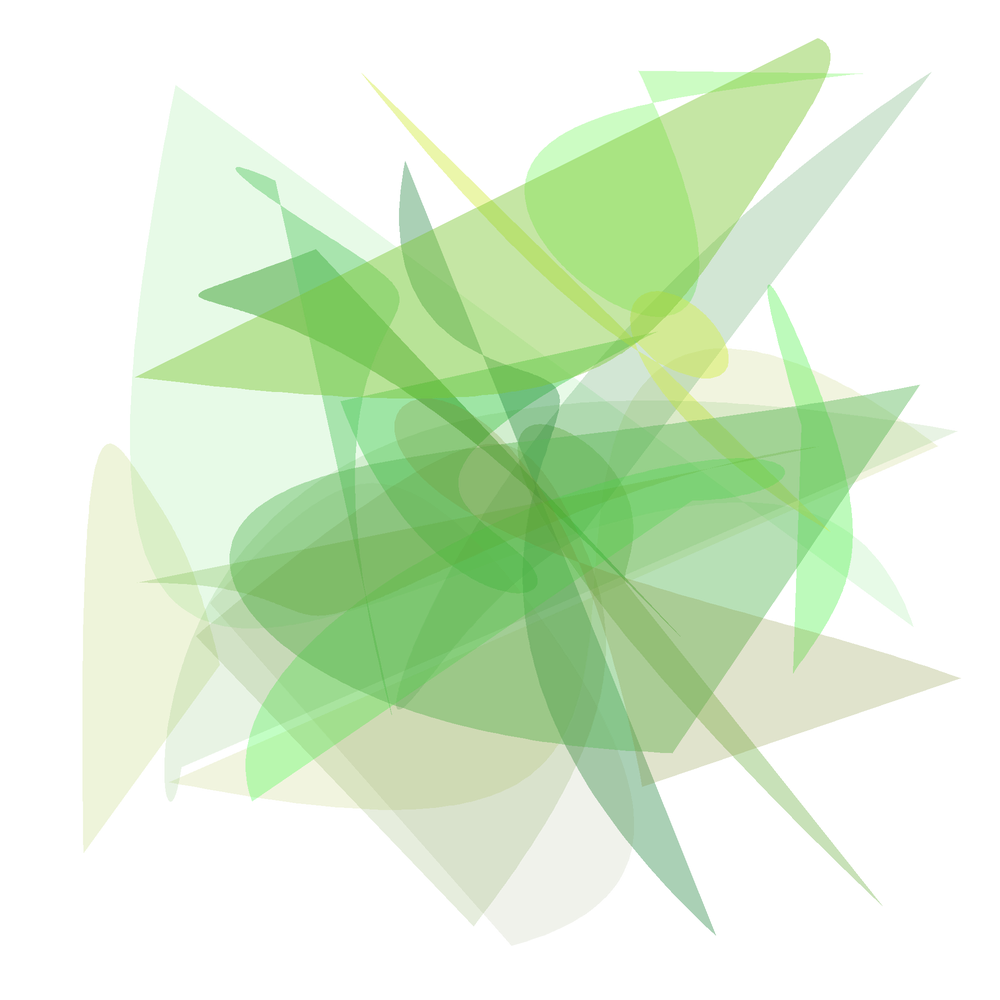
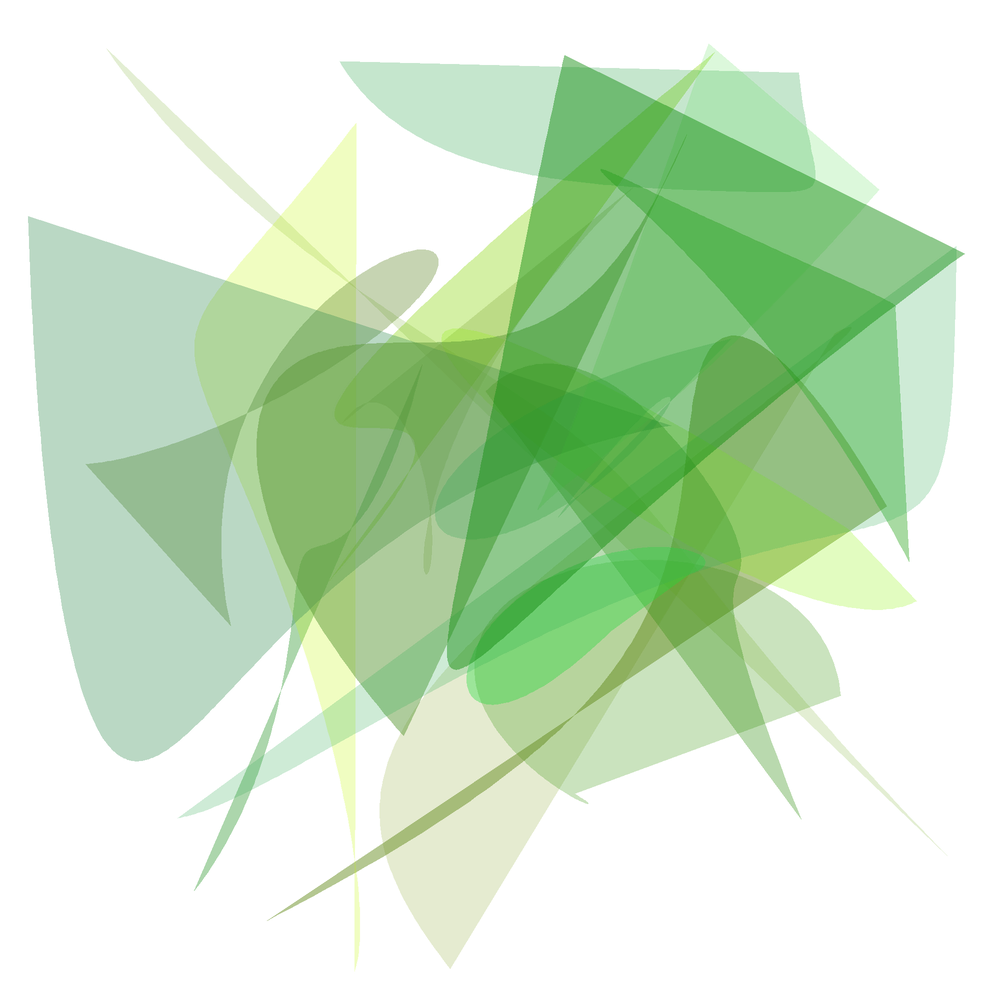
new art form once again

diff --git a/tools/image_utils.py b/tools/image_utils.py
@@ -1,9 +1,11 @@
 import random
 import numpy as np
 from PIL import Image
+from math import sin, cos, radians
 
 
 def calculate_offset(image, points):
+    """Calculates offset from image center for each point in point list."""
     width, height = image.size
 
     x_list = [point[0] for point in points]
@@ -21,6 +23,7 @@ def calculate_offset(image, points):
 
 
 def create_points(image, points_num, indent=50):
+    """Creates numpy list of random points on image with indent."""
     pts = []
     for _ in range(points_num):
         pts.append([random.randint(indent, image.size[0] - indent), random.randint(indent, image.size[0] - indent)])
@@ -37,7 +40,7 @@ def is_horizontal(start, end):
     return abs(delta_x) >= abs(delta_y)
 
 
-def points_along_line(image, points_num, start=None, end=None, indent=50):
+def points_along_line(image, points_num, start=None, end=None, indent=100, box=False):
     """Draws random points along line from start point to end point."""
     if start is None:
         start = [indent, indent]
@@ -45,15 +48,23 @@ def points_along_line(image, points_num, start=None, end=None, indent=50):
         end = [image.size[0] - indent, image.size[1] - indent]
 
     pts = [start]
+    if box:
+        min_x = int(min(start[0], end[0]))
+        box_width = int(max(start[0], end[0]) - min_x)
+        min_y = int(min(start[1], end[1]))
+        box_height = int(max(start[1], end[1]) - min_y)
+    else:
+        min_x, box_width, min_y, box_height = 0, image.size[0], 0, image.size[1]
 
     for i in range(points_num - 1):
 
         if is_horizontal(start, end):
             step_length = (end[0] - start[0]) // points_num
-            new_point = [start[0] + step_length * (i + 1), random.randint(0, image.size[1])]
+            new_point = [start[0] + step_length * (i + 1), random.randint(min_y - indent, box_height + min_y + indent)]
+
         else:
             step_length = (end[1] - start[1]) // points_num
-            new_point = [random.randint(0, image.size[1]), start[1] + step_length * (i + 1)]
+            new_point = [random.randint(min_x - indent, min_x + box_width + indent), start[1] + step_length * (i + 1)]
 
         pts.append(new_point)
 
@@ -62,12 +73,16 @@ def points_along_line(image, points_num, start=None, end=None, indent=50):
     return pts
 
 
-def create_image(size, steps, art_func, factor=5):
-    new_size = size * factor
+def ray_circle(center, rays_num, ray_len):
+    angle = radians(360 / rays_num)
+    points = []
+    for i in range(rays_num):
+        x = center[0] - ray_len * cos(angle * i)
+        y = center[1] - ray_len * sin(angle * i)
+        points.append((x, y))
+    return points + [points[0]]
 
-    image = Image.new('RGBA', (new_size, new_size), (0, 0, 0, 0))
-    for _ in range(steps):
-        art_func(image=image)
 
-    image = image.resize((size, size), resample=Image.ANTIALIAS)
-    return image
+def create_box(start, end):
+    box = [tuple(start), (end[0], start[1]), tuple(end), (start[0], end[1])]
+    return box

diff --git a/curvature.py b/curvature.py
@@ -1,13 +1,13 @@
 import random
 from PIL import Image, ImageDraw
 from tools.colors import *
-from classes.curve import Curve
-from tools.image_utils import points_along_line, calculate_offset
+from classes.Сurve import Curve
+from tools.image_utils import points_along_line, calculate_offset, create_box
 
 
 def generate_art(image, points_num, start=None, end=None, color=random_pastel,
                  color_change=True, steps=100, width=lambda: 5, curve_points=False,
-                 draw_rect=True):
+                 draw_rect=True, box=False):
 
     accuracy = 0.005
 
@@ -20,7 +20,7 @@ def generate_art(image, points_num, start=None, end=None, color=random_pastel,
     for _ in range(steps):
         if color_change:
             curve.color = color()
-        curve.points = points_along_line(image, points_num, start=start, end=end)
+        curve.points = points_along_line(image, points_num, start=start, end=end, box=box)
         curve.width = width()
         curve.create_curve()
 
@@ -36,7 +36,7 @@ def generate_art(image, points_num, start=None, end=None, color=random_pastel,
 
     polygon_image = Image.new('RGBA', image.size, (0, 0, 0, 0))
 
-    polygon_pos = [tuple(start), (end[0], start[1]), tuple(end), (start[0], end[1])]
+    polygon_pos = create_box(start, end)
     polygon_color = add_transparency(color(), random.randint(10, 30) / 100)
 
     ImageDraw.Draw(polygon_image).polygon(polygon_pos, fill=polygon_color)
@@ -51,14 +51,14 @@ if __name__ == '__main__':
     factor = size // 1000
     img = Image.new('RGBA', (size, size), (0, 0, 0, 0))
 
-    indent = 1000
-    # start = [random.randint(indent, size - indent), random.randint(indent, size - indent)]
-    # end = [random.randint(indent, size - indent), random.randint(indent, size - indent)]
+    indent = 10
+    start = [random.randint(indent, size - indent), random.randint(indent, size - indent)]
+    end = [random.randint(indent, size - indent), random.randint(indent, size - indent)]
 
-    start = [indent, indent]
-    end = [size - indent, size - indent]
+    # start = [indent, indent]
+    # end = [size - indent, size - indent]
 
-    box = [tuple(start), (end[0], start[1]), tuple(end), (start[0], end[1])]
+    box = create_box(start, end)
     off_x, off_y = calculate_offset(img, box)
 
     img = generate_art(image=img,
@@ -70,7 +70,8 @@ if __name__ == '__main__':
                        curve_points=False,
                        steps=20,
                        width=lambda: random.randint(1, 15),
-                       draw_rect=True)
+                       draw_rect=True,
+                       box=True)
 
     img = img.resize((size//factor, size//factor), resample=Image.ANTIALIAS)
-    img.save('images/curvature.png')
+    img.save('./images/curvature.png')

diff --git a/curves_in_circle.py b/curves_in_circle.py
@@ -1,0 +1,56 @@
+import random
+from PIL import Image, ImageDraw
+from tools.colors import *
+from classes.Сurve import Curve
+from tools.image_utils import points_along_line, calculate_offset, ray_circle
+
+
+def generate_art(image, center, rays_num, points_num, radius, steps=10, color=random_pastel, width=lambda: 3, box=True):
+    accuracy = 0.005
+
+    points = ray_circle(center, rays_num, radius)
+    curve = Curve(
+        points=[],
+        accuracy=accuracy,
+        color=color(),
+        width=width())
+
+    for _ in range(steps):
+        for point in points:
+
+            curve.points = points_along_line(image, points_num, center, point, box=box)
+            curve.color = color()
+            curve.width = width()
+            curve.create_curve()
+
+            curve.draw(image)
+
+        image = Image.alpha_composite(image, curve.image)
+
+    polygon_image = Image.new('RGBA', image.size, (0, 0, 0, 0))
+    polygon_color = add_transparency(color(), random.randint(10, 30) / 100)
+
+    ImageDraw.Draw(polygon_image).polygon(points, fill=polygon_color)
+
+    image = Image.alpha_composite(polygon_image, image)
+
+    return image
+
+
+if __name__ == '__main__':
+    size = 5000
+    factor = size // 1000
+
+    img = Image.new('RGBA', (size, size), (0, 0, 0, 0))
+    img = generate_art(image=img,
+                       center=(size//2, size//2),
+                       rays_num=181,
+                       points_num=2,
+                       radius=size//3,
+                       steps=1,
+                       color=random_gray,
+                       width=lambda: random.randint(1, 15),
+                       box=True)
+
+    img = img.resize((size//factor, size//factor), resample=Image.ANTIALIAS)
+    img.save('images/rays.png')

diff --git a/classes/Сurve.py b/classes/Сurve.py
@@ -16,16 +16,19 @@ class Curve:
         self.image = None
 
     def create_curve(self):
+        """Creates curve from given points (attribute curve) and returns points of curve"""
         curve = [tuple(i) for i in create_curve(self.t_points, self.points)]
         self.curve = curve
         return curve
 
     def offset(self, img):
+        """Offsets curve to center"""
         off_x, off_y = calculate_offset(img, self.curve)
         points = [(self.curve[i][0] + off_x, self.curve[i][1] - off_y) for i in range(len(self.curve))]
         self.curve = points
 
     def draw(self, img, centered=False):
+        """Draws standard curve."""
         self.image = img
 
         if centered:
@@ -35,6 +38,7 @@ class Curve:
         img_draw.line(self.curve, fill=self.color, width=self.width)
 
     def draw_points(self, img, centered=False):
+        """Draw curve as dots (according to accuracy could look similar to standard, but impacts performance)."""
         self.image = img
 
         if centered:

diff --git a/classes/ArtGenerator.py b/classes/ArtGenerator.py
@@ -1,0 +1,19 @@
+from classes.Сurve import Curve
+
+
+class ArtGenerator:
+    def __init__(self, image, points_num, points_func, accuracy, width, color):
+        self.curve = Curve(
+            points=points_func(),
+            accuracy=accuracy,
+            color=color(),
+            width=width
+        )
+
+        self.image = image
+        self.points_num = points_num
+        self.color = color
+
+    def main(self, steps):
+        for _ in range(steps):
+            self.curve.curve.color = self.color()

diff --git a/curves_and_lines.py b/curves_and_lines.py
@@ -1,7 +1,7 @@
 import random
 from PIL import Image, ImageDraw
 from tools.colors import random_pastel, hsv_to_rgb, add_transparency, random_gray, random_red, random_green, random_blue
-from classes.curve import Curve
+from classes.Сurve import Curve
 from tools.image_utils import create_points
 
 

diff --git a/shapes.py b/shapes.py
@@ -1,7 +1,7 @@
 import random
 from PIL import Image, ImageDraw
 from tools.colors import random_pastel, hsv_to_rgb, add_transparency, random_gray, random_red, random_green, random_blue
-from classes.curve import Curve
+from classes.Сurve import Curve
 from tools.image_utils import create_points
 
 

diff --git a/README.md b/README.md
@@ -1,8 +1,11 @@
 ## Generative art with python and PIL
 ***
 Example 1:
+
 ![](images/curve_example.png)
 Example 2:
 ![](images/shape_example.png)
 Example 3:
 ![](images/curvature_example.png)
+Example 4:
+![](images/rays_example.png)
